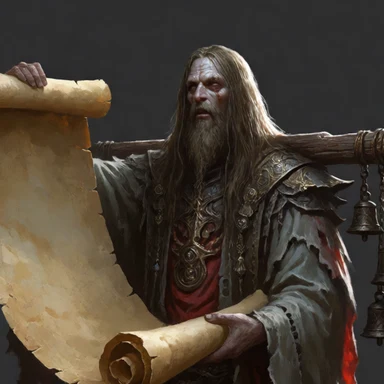
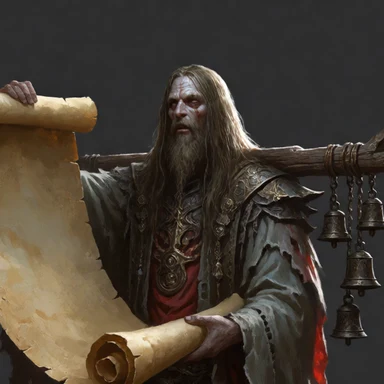
unit-concepts skill: frame portraits with the pose model; cards show in-game effects

diff --git a/docs/decisions.md b/docs/decisions.md
@@ -269,11 +269,12 @@ doing that. Lesson learned." So: percent reduction on a curve that flattens, lik
 reduction = armor ÷ (armor + 60), the user's yes (2026-10-09); built (provisional #75).
 
 ## Unreal 5 as a parallel track; the TypeScript rules stay the only rules (2026-10-09, the user)
-The user, after Claude's estimate (`unreal-port.md`): "Actual 3d quality. Threejs doesn't have all the features we need
+The user, after Claude's estimate: "Actual 3d quality. Threejs doesn't have all the features we need
 to make a beautiful game, and UE is the king of 3d." Velocity is the cost, so "conversion would likely be a continuous
 effort, where development with higher velocity would happen inside threejs", with agents in parallel. This reverses
 the 2026-09-28 "Unreal is out": a C++-only, script-built Unreal 5.8 workflow already runs on this machine
 (`domestic_bliss_vr`), so the concern that it would be slow for Claude no longer holds. Claude's call on how: Unreal is
 a view, and the rules stay in TypeScript as the only rules, reached from a Node process by calling them by name over a
-local socket. A second copy of the rules would drift and double every new unit. The Unreal project lives in `unreal/`;
-its C++ and scripts are the source, and generated assets stay out of git.
+local socket. A second copy of the rules would drift and double every new unit. The Unreal project is its own repo,
+`../disc_unreal` (the user, the same day, so it doesn't mix with the TypeScript cycle). It reads this repo's rules
+and assets and never writes here; its plan is its `docs/plan.md`.

diff --git a/.claude/skills/unit-concepts/SKILL.md b/.claude/skills/unit-concepts/SKILL.md
@@ -140,3 +140,12 @@ than the Custodian's 3D concepts is a stand-in to redo (the user, 2026-10-05).
   itself, the bust (a head-and-shoulders crop) at 0.45–0.75 keeps it. `--install <card> <bust>` puts the card, the
   bust and an icon cut from the bust (zoomed on the face) into `assets/art/{portrait,bust,icon}/`. One unit at a
   time; look at each in a battle shot.
+- **Where the bust and icon are cut: `uv run scripts/art/portrait-frames.py <card.png…>`** (a pose model finds the face
+  and shoulders; one rule frames them all). Never estimate crops from a grid: the user (2026-10-09) found "a lot of the
+  portraits are misaligned […] this manual nudging is very prone to having faults". It reports what it can't see (a
+  silhouette with no face, the Godkin); a faceless head can fool it (the Chosen's face points landed on his sword):
+  check its icons at full size and set those few by hand.
+- **A card shows the unit as it looks in the game, effects included** (the user, on the Godkin: "the intention is, that
+  there should be effects that fleshen things out. So you need to think more about godrays, daybreak, sunlight, etc
+  when it comes to cards and icons"): light, fire, glow and aura go into the card's pose words, even when the 3D model
+  will carry them as effects.

diff --git a/.kanban/ongoing/unreal-port.md b/.kanban/ongoing/unreal-port.md
@@ -1,10 +1,10 @@
 # The Unreal 5 port, alongside three.js
 
-- **What:** The game in Unreal 5.8 (`unreal/`), as a view that follows the three.js game: the battle, the map, then the
-  interface. The TypeScript rules stay the only rules, served to Unreal from a Node process. Plan and steps:
-  `docs/unreal-port.md`.
+- **What:** The game in Unreal 5.8, in its own repo, `../disc_unreal` (plan and steps: its `docs/plan.md`). Unreal is a
+  view that follows the three.js game: the battle, the map, then the interface. This repo's TypeScript rules stay the
+  only rules; the Unreal repo reads them and the assets from here and never writes here.
 - **Why:** The user (2026-10-09): "Actual 3d quality […] UE is the king of 3d." Velocity stays in three.js; agents
-  port in parallel ("a continuous effort").
+  port in parallel ("a continuous effort"). A separate repo so it doesn't mix with the TypeScript cycle (the user).
 - **Done when:** The Unreal version plays from the title to victory and the three.js view can retire. The user decides
   when.
 - **Who:** Claude builds (parallel agents); the user judges the look.

diff --git a/docs/status.md b/docs/status.md
@@ -33,9 +33,9 @@ check its exit code, not a grep of its output); `pnpm sizes` for any interface c
 - **Armor is a percentage with diminishing returns** (the user; #75, `testing/percent-armor`): armor ÷ (armor + 60),
   shown as a percent on the cards and in the codex.
 - **The Grove's Water is now Wellspring.**
-- **Unreal 5 as a parallel track** (the user: "UE is the king of 3d"; `unreal-port.md`, `ongoing/unreal-port`).
-  three.js keeps the pace; Unreal follows as a view, with the TypeScript rules as the only rules (a Node process).
-  Step 1, the project and the battle arena (`in-progress/unreal-battle-arena`), runs in a background agent.
+- **Unreal 5 as a parallel track** (the user: "UE is the king of 3d"; `ongoing/unreal-port`), in its own repo,
+  `../disc_unreal`. three.js keeps the pace; Unreal follows as a view, with this repo's TypeScript rules as the only
+  rules. Work here goes on as before; the Unreal repo reads this one and never writes to it.
 
 ## Next
 1. **Finish Jilliath's concepts** with the user (the open nine), then portraits from the picks.
